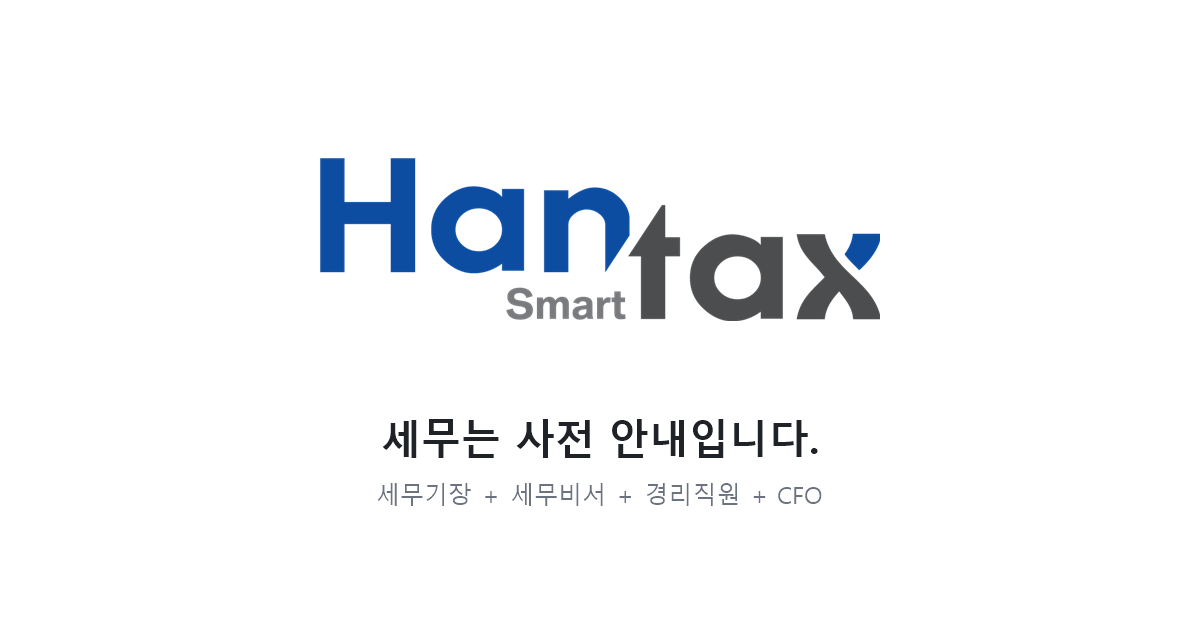
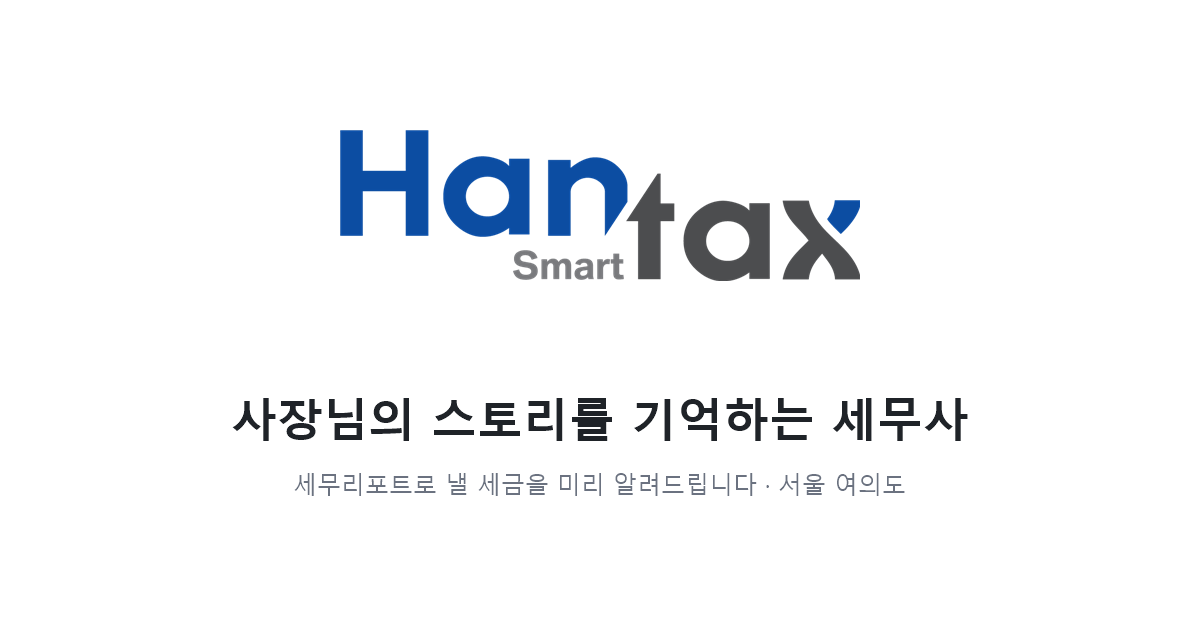
CTA 버튼 모바일 폭 통일(340px), 카톡 썸네일을 현재 슬로건으로 재생성(사장님의 스토리를 기억하는 세무사). 로고 Smart는 지점명(스마트지점) 표기라 유지. CSS v12

Changed region(s): [[0.2467, 0.2111, 0.74, 0.5127], [0.185, 0.6333, 0.8017, 0.7238], [0.2467, 0.754, 0.7708, 0.8143]]

diff --git a/index.html b/index.html
@@ -45,7 +45,7 @@
 <link rel="preconnect" href="https://fonts.gstatic.com" crossorigin>
 <link href="https://fonts.googleapis.com/css2?family=Noto+Serif+KR:wght@500;700;900&display=swap" rel="stylesheet">
 <link rel="stylesheet" as="style" crossorigin href="https://cdn.jsdelivr.net/gh/orioncactus/pretendard@v1.3.9/dist/web/variable/pretendardvariable-dynamic-subset.min.css">
-<link rel="stylesheet" href="style.css?v=11">
+<link rel="stylesheet" href="style.css?v=12">
 </head>
 <body>
 

diff --git a/style.css b/style.css
@@ -231,6 +231,7 @@ body.menu-open .menu-btn span:nth-child(3){transform:translateY(-6px) rotate(-45
   .stack .shot:nth-last-child(4){transform:translate(-42px,-15px)}
   .team-grid{grid-template-columns:repeat(2,1fr)}
   .cta{padding:96px 0}
+  .cta .btn{width:min(100%,340px);justify-content:center}
   .post-list{grid-template-columns:1fr}
   .page-head{padding:100px 0 36px}.page-head h1{font-size:30px}
   .article{padding:100px 20px 72px}.article h1{font-size:27px}
